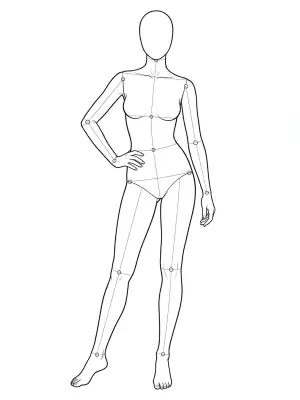
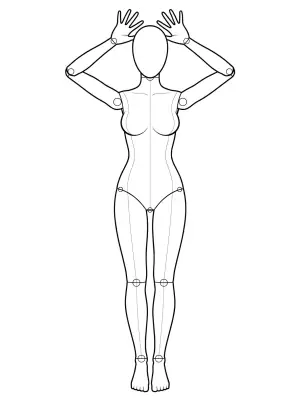
fix: use a consistent standing pose and shared link list for focus reference pages on cv.cm
The previous standing set changed leg position between views. Restore the usual
prefetch on footer links, since a slow click otherwise shows no feedback.

diff --git a/src/client/main.ts b/src/client/main.ts
@@ -252,8 +252,6 @@ function prefetchGamePack(e: Event): void {
   const loc = locale();
   if (target?.closest?.('a[data-nav^="game-"]')) {
     if (!hasPageMessages(loc, true)) loadPageMessages(loc, true).catch(() => {});
-  } else if (target?.closest?.('.dir-group a[data-nav^="ref-"]')) {
-    // Footer entries sit on every page and are easy to brush past; the pack loads on click instead.
   } else if (target?.closest?.('a[data-nav^="ref-"], a[data-nav="reference"]')) {
     // data-nav is "ref-<entry id>" on an entry link, "reference" on a hub link.
     const nav = target.closest('a[data-nav^="ref-"], a[data-nav="reference"]')?.getAttribute("data-nav") ?? "";

diff --git a/src/client/styles.css b/src/client/styles.css
@@ -628,7 +628,6 @@ input[type="color"] { width: 2.6rem; height: 2.2rem; padding: 0; border: 1px sol
 .gen-grid figcaption .btn { width: 100%; }
 /* AI music generator: piano roll of the generated piece. */
 .music-roll { display: block; width: 100%; height: auto; background: var(--white); }
-.ref-focus { display: flex; flex-wrap: wrap; gap: 0.15rem 0.85rem; margin: 0; line-height: 1.7; }
 .ref-tags { list-style: none; margin: 0; padding: 0; display: flex; flex-wrap: wrap; gap: 0.4rem; }
 .ref-names th[scope="row"] { font-weight: 400; color: var(--ink-soft); }
 .game-official { margin: 0.4rem 0 0.6rem; padding-left: 1.2rem; }

diff --git a/src/client/home.ts b/src/client/home.ts
@@ -79,7 +79,7 @@ export function mountHome(host: HTMLElement, locale: Locale): () => void {
     ),
     h("section", { class: "wall" },
       h("h2", null, h("a", { href: refHref(locale), "data-nav": "reference" }, t("nav.reference"))),
-      h("p", { class: "ref-focus" }, ...REF_FOCUS.map((id) => h("a", { href: refHref(locale, id), "data-nav": `ref-${id}` }, t(`refFocus.${id}`)))),
+      linkList(REF_FOCUS.map((id) => ({ href: refHref(locale, id), name: t(`refFocus.${id}`), nav: `ref-${id}` }))),
     ),
     h("section", { class: "wall" },
       h("h2", null, t("nav.games")),

diff --git a/docs/ref-mannequins.md b/docs/ref-mannequins.md
@@ -11,7 +11,7 @@ alt text comes from cv.cm's own copy. Pose ids appear here only as provenance.
 | cv.cm entry | Shisei file stem | Angles used (Shisei view) |
 |---|---|---|
 | `sitting-pose` | `std_P012` | front, three-quarter (`diag`), side, above |
-| `standing-pose` | `std_P015` | front, three-quarter (`diag`), side |
+| `standing-pose` | `std_P016` | front, three-quarter (`diag`), side |
 | `kneeling-pose` | `std_P037` | front, three-quarter (`diag`), side |
 
 Only poses rated `general` were considered, and each view was checked by eye before use. Low-angle (`below`) views and
